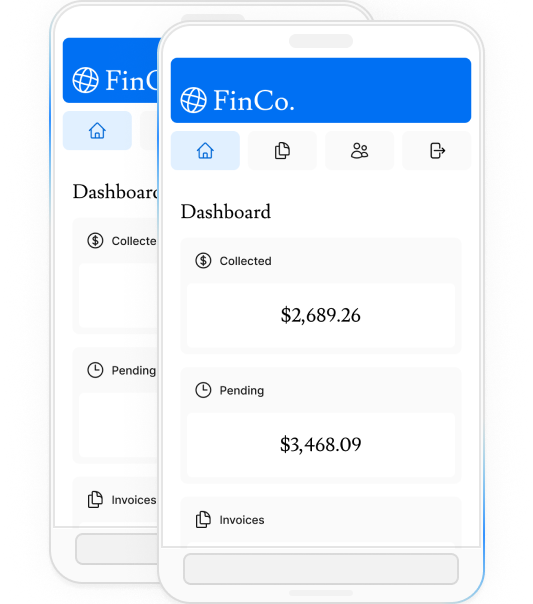
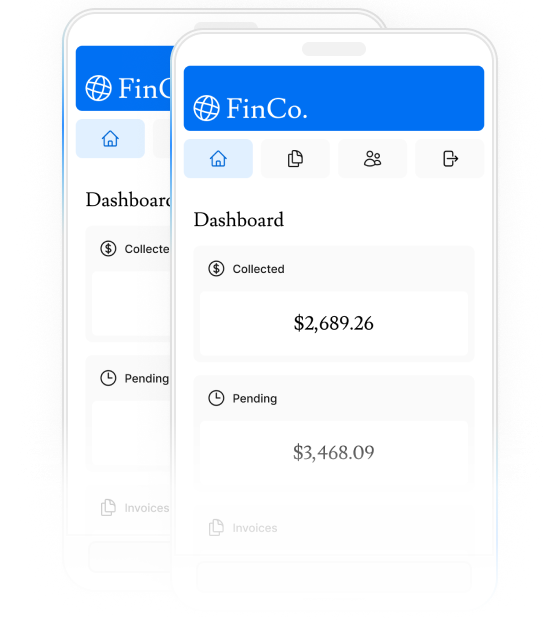
Clean up 💅🏼  (#198)
* Use string literals

* Use 666 for evil rabbit

* Delete extra logo

* Use consistent pixels for images

* Update button.tsx

* Fix 666 mistake

diff --git a/dashboard/15-final/app/page.tsx b/dashboard/15-final/app/page.tsx
@@ -1,8 +1,8 @@
 import AcmeLogo from '@/app/ui/acme-logo';
+import { ArrowRightIcon } from '@heroicons/react/24/outline';
 import { lusitana } from '@/app/ui/fonts';
 import Image from 'next/image';
 import Link from 'next/link';
-import { ArrowRightIcon } from '@heroicons/react/24/outline';
 export default function Page() {
   return (
     <main className="flex min-h-screen flex-col p-6">
@@ -24,24 +24,25 @@ export default function Page() {
           </p>
           <Link
             href="/login"
-            className="flex items-center gap-5 self-start rounded-lg bg-blue-500 px-6 py-3 text-sm text-white transition-colors hover:bg-blue-400 md:text-base"
+            className="flex items-center gap-5 self-start rounded-lg bg-blue-500 px-6 py-3 text-sm font-medium text-white transition-colors hover:bg-blue-400 md:text-base"
           >
             <span>Log in</span> <ArrowRightIcon className="w-5 md:w-6" />
           </Link>
         </div>
         <div className="flex items-center justify-center p-6 md:w-3/5 md:px-28 md:py-12">
+          {/* Add Hero Images Here */}
           <Image
-            src="/hero.png"
+            src="/hero-desktop.png"
             width={1000}
             height={760}
-            alt="Dashboard Hero"
+            alt="Screenshots of the dashboard project showing desktop and mobile versions"
             className="hidden md:block"
           />
           <Image
             src="/hero-mobile.png"
-            width={436}
-            height={604}
-            alt="Dashboard Hero"
+            width={560}
+            height={620}
+            alt="Screenshot of the dashboard project showing mobile version"
             className="block md:hidden"
           />
         </div>

diff --git a/dashboard/15-final/app/ui/login-form.tsx b/dashboard/15-final/app/ui/login-form.tsx
@@ -4,11 +4,10 @@ import { signIn } from 'next-auth/react';
 import { useRouter } from 'next/navigation';
 import React, { useState } from 'react';
 import { lusitana } from '@/app/ui/fonts';
-import clsx from 'clsx';
 import { AtSymbolIcon, KeyIcon } from '@heroicons/react/24/outline';
 import { Button } from './button';
 import { ArrowRightIcon } from '@heroicons/react/20/solid';
-import { Logo } from './logo';
+import AcmeLogo from './acme-logo';
 
 export default function LoginForm() {
   const [email, setEmail] = useState('');
@@ -39,12 +38,14 @@ export default function LoginForm() {
   return (
     <div className="flex items-center justify-center md:h-screen">
       <div className="relative mx-auto flex w-full max-w-[400px] flex-col space-y-2.5 p-4 md:-mt-32">
-        <div className="flex h-36 w-full items-end rounded-lg bg-blue-500 p-3">
-          <Logo />
+        <div className="flex h-20 w-full items-end rounded-lg bg-blue-500 p-3 md:h-36">
+          <div className="w-32 text-white md:w-36">
+            <AcmeLogo />
+          </div>
         </div>
         <form onSubmit={handleSubmit} className="space-y-3">
           <div className="flex-1 rounded-lg bg-gray-50 px-6 pb-6 pt-5">
-            <h1 className={clsx(lusitana.className, 'mb-3 text-2xl')}>
+            <h1 className={`${lusitana.className} mb-3 text-2xl`}>
               Please log in to continue.
             </h1>
             <div className="w-full">

diff --git a/dashboard/15-final/app/ui/dashboard/card.tsx b/dashboard/15-final/app/ui/dashboard/card.tsx
@@ -5,7 +5,6 @@ import {
   InboxIcon,
 } from '@heroicons/react/24/outline';
 import { lusitana } from '@/app/ui/fonts';
-import clsx from 'clsx';
 
 const iconMap = {
   collected: BanknotesIcon,
@@ -32,10 +31,8 @@ export default function Card({
         <h3 className="ml-2 text-sm font-medium">{title}</h3>
       </div>
       <p
-        className={clsx(
-          lusitana.className,
-          'truncate rounded-xl bg-white px-4 py-8 text-center text-2xl',
-        )}
+        className={`${lusitana.className}
+          truncate rounded-xl bg-white px-4 py-8 text-center text-2xl`}
       >
         {value}
       </p>

diff --git a/dashboard/15-final/app/ui/dashboard/latest-invoices.tsx b/dashboard/15-final/app/ui/dashboard/latest-invoices.tsx
@@ -11,7 +11,7 @@ export default async function LatestInvoices({
 }) {
   return (
     <div className="flex w-full flex-col md:col-span-4 lg:col-span-4">
-      <h2 className={clsx(lusitana.className, 'mb-4 text-xl md:text-2xl')}>
+      <h2 className={`${lusitana.className} mb-4 text-xl md:text-2xl`}>
         Latest Invoices
       </h2>
       <div className="flex grow flex-col justify-between rounded-xl bg-gray-50 p-4">
@@ -45,10 +45,7 @@ export default async function LatestInvoices({
                   </div>
                 </div>
                 <p
-                  className={clsx(
-                    lusitana.className,
-                    'truncate text-sm font-medium md:text-base',
-                  )}
+                  className={`${lusitana.className} md:text-base, truncate text-sm font-medium`}
                 >
                   {invoice.amount}
                 </p>

diff --git a/dashboard/15-final/app/layout.tsx b/dashboard/15-final/app/layout.tsx
@@ -1,7 +1,6 @@
-import clsx from 'clsx';
 import '@/app/ui/global.css';
-import type { Metadata } from 'next';
 import { inter } from '@/app/ui/fonts';
+import type { Metadata } from 'next';
 
 export const metadata: Metadata = {
   title: 'Create Next App',
@@ -15,7 +14,7 @@ export default function RootLayout({
 }) {
   return (
     <html lang="en">
-      <body className={clsx(inter.className, 'antialiased')}>{children}</body>
+      <body className={`${inter.className} antialiased`}>{children}</body>
     </html>
   );
 }

diff --git a/dashboard/15-final/app/ui/dashboard/revenue-chart.tsx b/dashboard/15-final/app/ui/dashboard/revenue-chart.tsx
@@ -2,7 +2,6 @@ import { generateYAxis } from '@/app/lib/utils';
 import { fetchRevenue } from '@/app/lib/data';
 import { CalendarIcon } from '@heroicons/react/24/outline';
 import { lusitana } from '@/app/ui/fonts';
-import clsx from 'clsx';
 // This component is representational only.
 // For data visualization UI, check out:
 // https://www.tremor.so/
@@ -21,7 +20,7 @@ export default async function RevenueChart() {
 
   return (
     <div className="w-full md:col-span-4">
-      <h2 className={clsx(lusitana.className, 'mb-4 text-xl md:text-2xl')}>
+      <h2 className={`${lusitana.className} mb-4 text-xl md:text-2xl`}>
         Recent Revenue
       </h2>
       <div className="rounded-xl bg-gray-50 p-4">
@@ -54,7 +53,7 @@ export default async function RevenueChart() {
         </div>
         <div className="flex items-center pb-2 pt-6">
           <CalendarIcon className="h-5 w-5 text-gray-500" />
-          <h3 className="ml-2 text-sm text-gray-500 ">Last 6 months</h3>
+          <h3 className="ml-2 text-sm text-gray-500 ">Last 12 months</h3>
         </div>
       </div>
     </div>

diff --git a/dashboard/15-final/app/lib/dummy-data.js b/dashboard/15-final/app/lib/dummy-data.js
@@ -98,7 +98,7 @@ const invoices = [
   },
   {
     customer_id: customers[6].id,
-    amount: 8945,
+    amount: 666,
     status: 'pending',
     date: '2023-06-27',
   },
@@ -116,7 +116,7 @@ const invoices = [
   },
   {
     customer_id: customers[5].id,
-    amount: 8945,
+    amount: 8546,
     status: 'paid',
     date: '2023-06-07',
   },

diff --git a/dashboard/15-final/app/ui/button.tsx b/dashboard/15-final/app/ui/button.tsx
@@ -9,7 +9,7 @@ export function Button({ children, className, ...rest }: ButtonProps) {
     <button
       {...rest}
       className={clsx(
-        'flex h-10 items-center rounded-lg bg-blue-600 px-4 text-sm font-medium text-white transition-colors hover:bg-blue-500 focus-visible:outline focus-visible:outline-2 focus-visible:outline-offset-2 focus-visible:outline-blue-600',
+        'flex h-10 items-center rounded-lg bg-blue-500 px-4 text-sm font-medium text-white transition-colors hover:bg-blue-400 focus-visible:outline focus-visible:outline-2 focus-visible:outline-offset-2 focus-visible:outline-blue-500',
         className,
       )}
     >